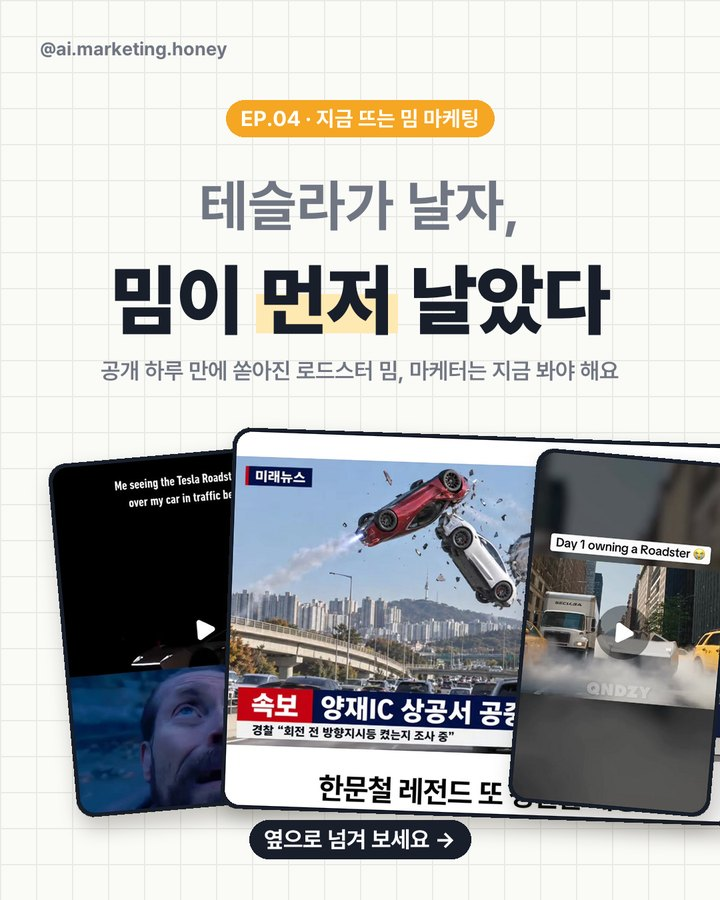
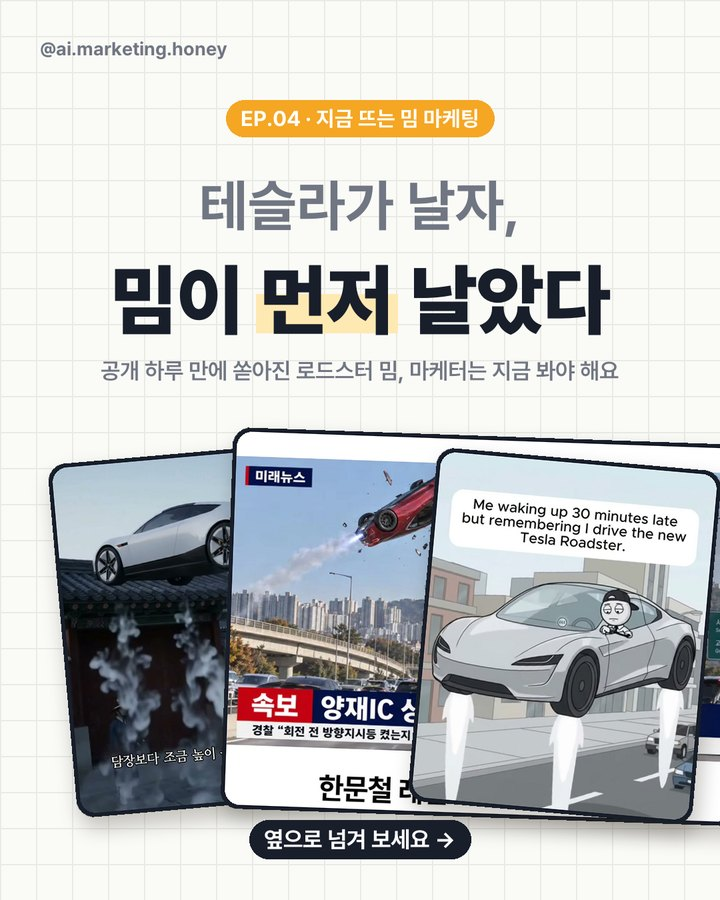
EP.04 밈 공식 업데이트(유행 포맷에 얹기 · 캡션만 바꾸기) · 슬라이드 이미지 교체

Changed region(s): [[0.55, 0.4978, 1.0, 0.9333], [0.0611, 0.4978, 0.3361, 0.9022]]

diff --git a/ep/04/index.html b/ep/04/index.html
@@ -39,10 +39,10 @@
 
   <section>
     <h2><span class="n">02</span>하루 만에 터진 밈 공식 4가지</h2>
-    <div class="card"><b>① 게임에 빗대기</b><p class="muted" style="margin:4px 0 0">"Real-life Rocket League" — <a href="https://www.instagram.com/p/Dei8mR-Ep4J/">@9gag</a> (좋아요 34.4만). 누구나 아는 세계관을 한 줄로 소환해요.</p></div>
-    <div class="card"><b>② 내 일상에 대입</b><p class="muted" style="margin:4px 0 0">출근길 정체, 주차 자리 — <a href="https://www.instagram.com/p/DeiwcygKQ1N/">@qndzy</a> (15.8만) · <a href="https://www.instagram.com/p/Deir6zVqcXs/">@sensei.william</a> (28.6만). '나라면?'으로 바꾸면 공감 밈이 돼요.</p></div>
+    <div class="card"><b>① 유행 포맷에 얹기</b><p class="muted" style="margin:4px 0 0">"고종, 로드스터 타고 아관파천" — <a href="https://www.instagram.com/reel/Deja8fTB5jv/">@oddarchive_404</a> (좋아요 1,001). 이미 뜨는 'AI 조선시대' 영상 포맷(조선시대 브이로그 5.8만, 타임슬립 2.6만 등)에 오늘 이슈를 얹었어요. 형식이 익숙하니 설명 없이 바로 웃겨요.</p></div>
+    <div class="card"><b>② 내 일상에 대입</b><p class="muted" style="margin:4px 0 0">주차 자리, 지각 — <a href="https://www.instagram.com/p/Deir6zVqcXs/">@sensei.william</a> (28.6만) · <a href="https://www.instagram.com/p/Dei9Mduv_Vn/">@antertained</a> (12.8만). '나라면?'으로 바꾸면 공감 밈이 돼요.</p></div>
     <div class="card"><b>③ 우리 동네로</b><p class="muted" style="margin:4px 0 0">"양재IC 상공서 공중제비 중 3중 추돌" — <a href="https://www.instagram.com/p/DejAqegD-Cw/">@smile_haha_s2</a> (1.3만). 한국 사람만 아는 디테일이 붙으면 국내에서 터져요.</p></div>
-    <div class="card"><b>④ AI로 바로 만들기</b><p class="muted" style="margin:4px 0 0">"다음 주 월요일의 나" — <a href="https://www.instagram.com/p/Dei1xJPtIH0/">@technology</a> (7.8만). AI로 상상한 영상 밈도 크게 퍼졌어요.</p></div>
+    <div class="card"><b>④ 캡션만 바꾸기</b><p class="muted" style="margin:4px 0 0">같은 AI 영상에 "Day 1 owning a Roadster"(<a href="https://www.instagram.com/p/DeiwcygKQ1N/">@qndzy</a>, 15.8만), "Me next Monday"(<a href="https://www.instagram.com/p/Dei1xJPtIH0/">@technology</a>, 7.8만). 장면은 그대로 두고 캡션 한 줄로 다른 이야기를 만들었어요.</p></div>
     <p class="muted" style="margin-top:10px">좋아요 수는 2026-10-16 수집 기준이에요. 국내 커뮤니티는 루리웹 첫 움짤이 10:13(조회 6만), 에펨코리아 포텐이 10:59(조회 43만)였어요.</p>
   </section>
 
@@ -109,11 +109,11 @@
     <div class="gallery">
       <img src="../../assets/img/ep04/slide_01.jpg" alt="테슬라가 날자, 밈이 먼저 날았다" loading="lazy">
       <img src="../../assets/img/ep04/slide_02.jpg" alt="10월 16일 테슬라가 나는 차를 공개" loading="lazy">
-      <img src="../../assets/img/ep04/slide_03.jpg" alt="공개 후 12분 만에 첫 밈" loading="lazy">
-      <img src="../../assets/img/ep04/slide_04.jpg" alt="밈 공식 1 게임에 빗대기" loading="lazy">
+      <img src="../../assets/img/ep04/slide_03.jpg" alt="공개 후 12분 만에 밈 탄생" loading="lazy">
+      <img src="../../assets/img/ep04/slide_04.jpg" alt="밈 공식 1 유행 포맷에 얹기" loading="lazy">
       <img src="../../assets/img/ep04/slide_05.jpg" alt="밈 공식 2 내 일상에 대입" loading="lazy">
       <img src="../../assets/img/ep04/slide_06.jpg" alt="밈 공식 3 우리 동네로" loading="lazy">
-      <img src="../../assets/img/ep04/slide_07.jpg" alt="밈 공식 4 AI로 바로 만들기" loading="lazy">
+      <img src="../../assets/img/ep04/slide_07.jpg" alt="밈 공식 4 캡션만 바꾸기" loading="lazy">
       <img src="../../assets/img/ep04/slide_08.jpg" alt="브랜드는 아직 거의 없어요" loading="lazy">
       <img src="../../assets/img/ep04/slide_09.jpg" alt="골든타임 24~48시간, 이건 피하세요" loading="lazy">
     </div>
